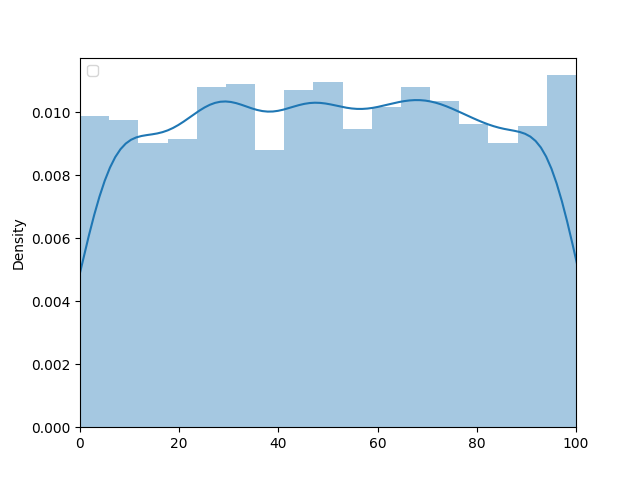
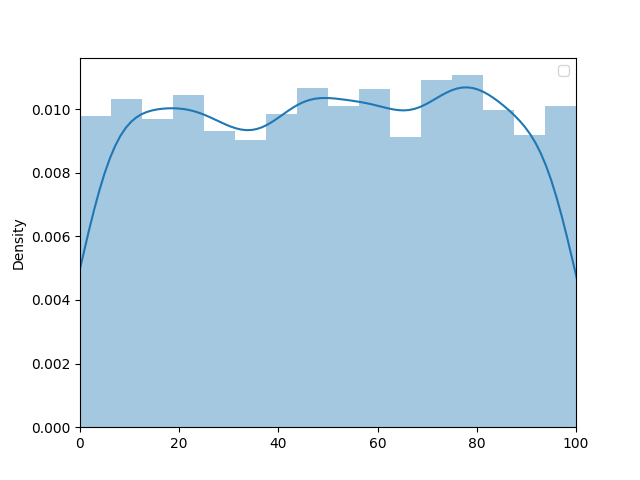
added figs for 25 iteration average un

diff --git a/1_MCTS/Analytics.py b/1_MCTS/Analytics.py
@@ -58,6 +58,7 @@ class Analytics:
 
         return rank_percent
 
+    # TODO: violin/box plots
     def create_plots(self, stats):
 
         df = pd.DataFrame()

diff --git a/1_MCTS/Main.py b/1_MCTS/Main.py
@@ -6,7 +6,7 @@ class Main:
 
 depth = 12
 c_values = [0, 0.01, 0.05, 0.1, 0.5, 1, 2, 5]
-repeats = 1
+repeats = 25
 
 statistics = {}
 
